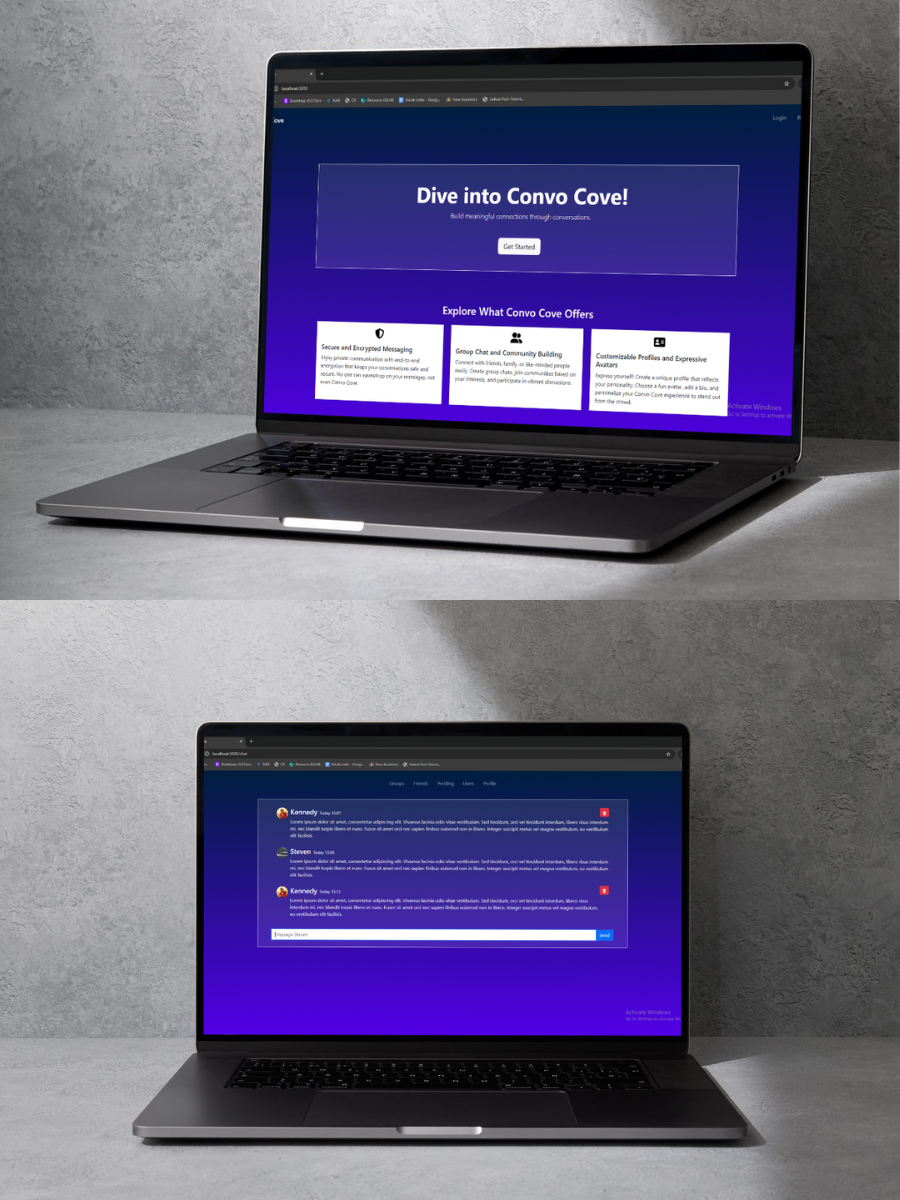
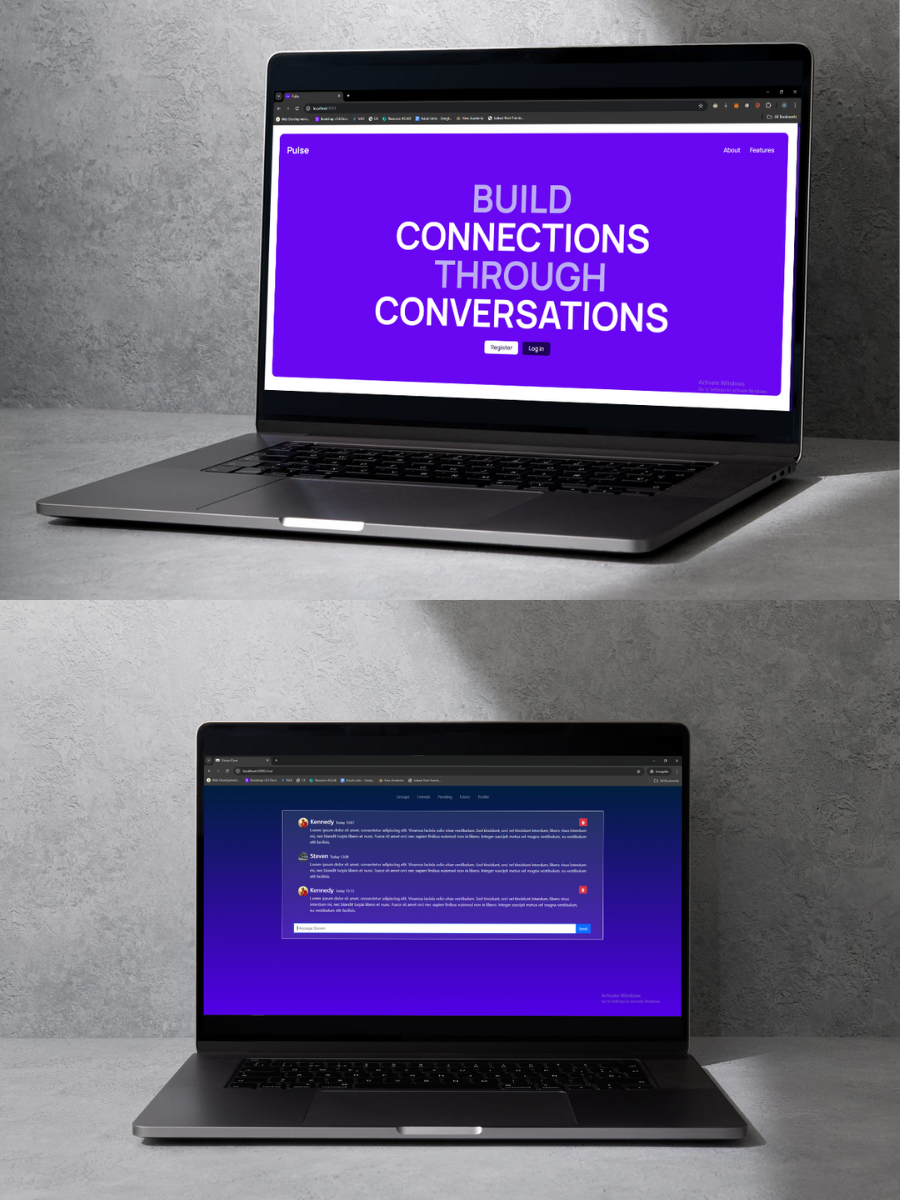
modified: pulse project image

Changed region(s): [[0.28, 0.0308, 0.9022, 0.37], [0.2178, 0.6167, 0.7778, 0.8017], [0.2178, 0.8325, 0.7778, 0.8633]]

diff --git a/index.html b/index.html
@@ -424,7 +424,7 @@ a,
                                                     <div class="work-list-grid">
                                                         <div id="nowThis" thattextsplit="hoverTarget" base="100%"
                                                             class="work-list-title w-node-_01521a5e-18ee-4a67-e5ed-a483cfb6ffb0-019ada71">
-                                                            <h3 class="heading-style-h3 text-color-white">Convo Cove
+                                                            <h3 class="heading-style-h3 text-color-white">Pulse
                                                             </h3>
                                                         </div>
                                                         <div id="nowThis" thattextsplit="hoverTarget" base="20%"
